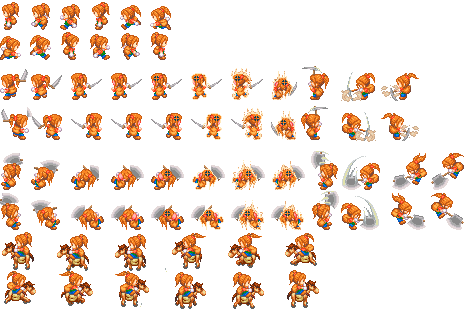
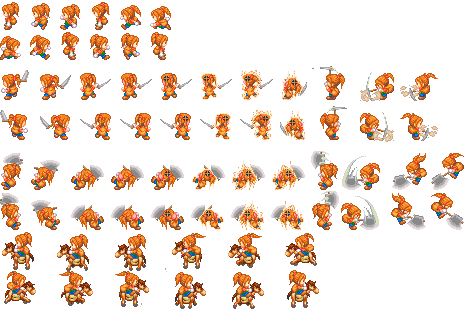
encuadrar sprites

Changed region(s): [[0.0, 0.2032, 0.9532, 0.4645], [0.2085, 0.5516, 0.2383, 0.5806]]

diff --git a/mainPlayer.cpp b/mainPlayer.cpp
@@ -12,7 +12,7 @@
 #define WIDTH 64
 #define ANIMATION_SPEED 8
 #define WALKINGSIZEVEC  glm::vec2(widhtProp*2.1, heightProp*3)
-#define DIGSIZEVEC glm::vec2(widhtProp * 3, heightProp * 3.5)
+#define DIGSIZEVEC glm::vec2(widhtProp * 3 + widhtProp * 0.8, heightProp * 3 + 0.5 * heightProp)
 
 enum SpriteSizes {
 	WALKINGSIZE, DIGSIZE
@@ -29,7 +29,7 @@ void MainPlayer::init(const glm::ivec2 &tileMapPos, ShaderProgram &shaderProgram
 	bLeft = true;
 	spritesheet.loadFromFile("images/Especials_1.png", TEXTURE_PIXEL_FORMAT_RGBA);
 	
-	sprite = Sprite::createSprite(glm::ivec2(WIDTH, HEIGHT), glm::vec2(widhtProp*2.1, heightProp*3), &spritesheet, &shaderProgram);
+	sprite = Sprite::createSprite(glm::ivec2(WIDTH, HEIGHT), WALKINGSIZEVEC, &spritesheet, &shaderProgram);
 	spriteSize = WALKINGSIZE;
 	sprite->setNumberAnimations(6);
 
@@ -57,7 +57,7 @@ void MainPlayer::init(const glm::ivec2 &tileMapPos, ShaderProgram &shaderProgram
 	sprite->addKeyframe(MOVE_RIGHT, glm::vec2(widhtProp * 3 * 5, 3 * heightProp));
 
 	//WEAPON1 (11*2)
-	double height = 6 * heightProp + 0.7*heightProp;
+	double height = 6 * heightProp + 0.5 * heightProp;
 	sprite->setAnimationSpeed(ARM1_LEFT, ANIMATION_SPEED);
 	sprite->addKeyframe(ARM1_LEFT, glm::vec2(0.f, height));
 	sprite->addKeyframe(ARM1_LEFT, glm::vec2(widhtProp * 3, height));
